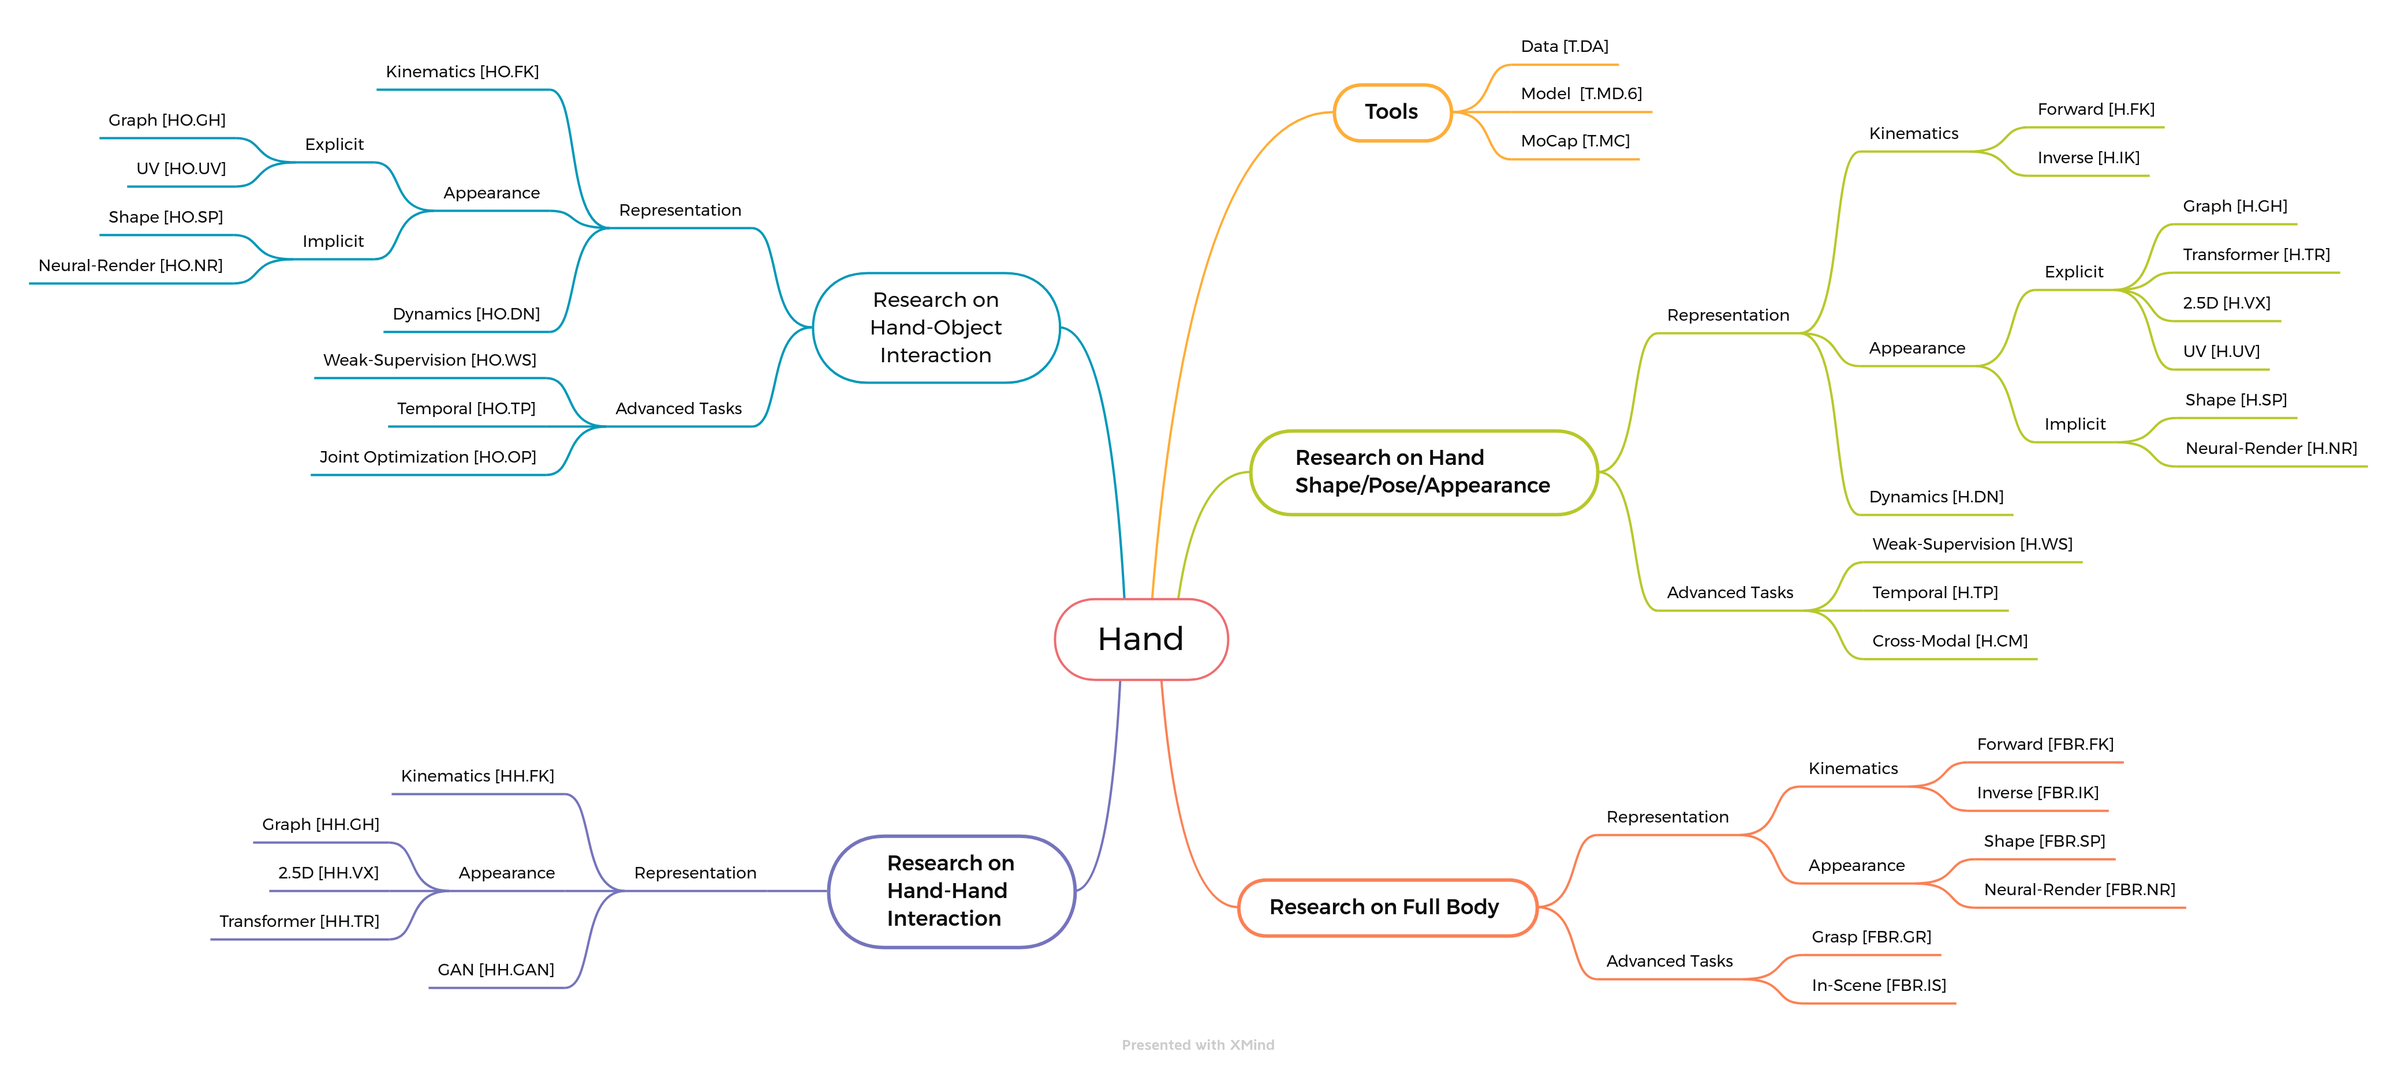
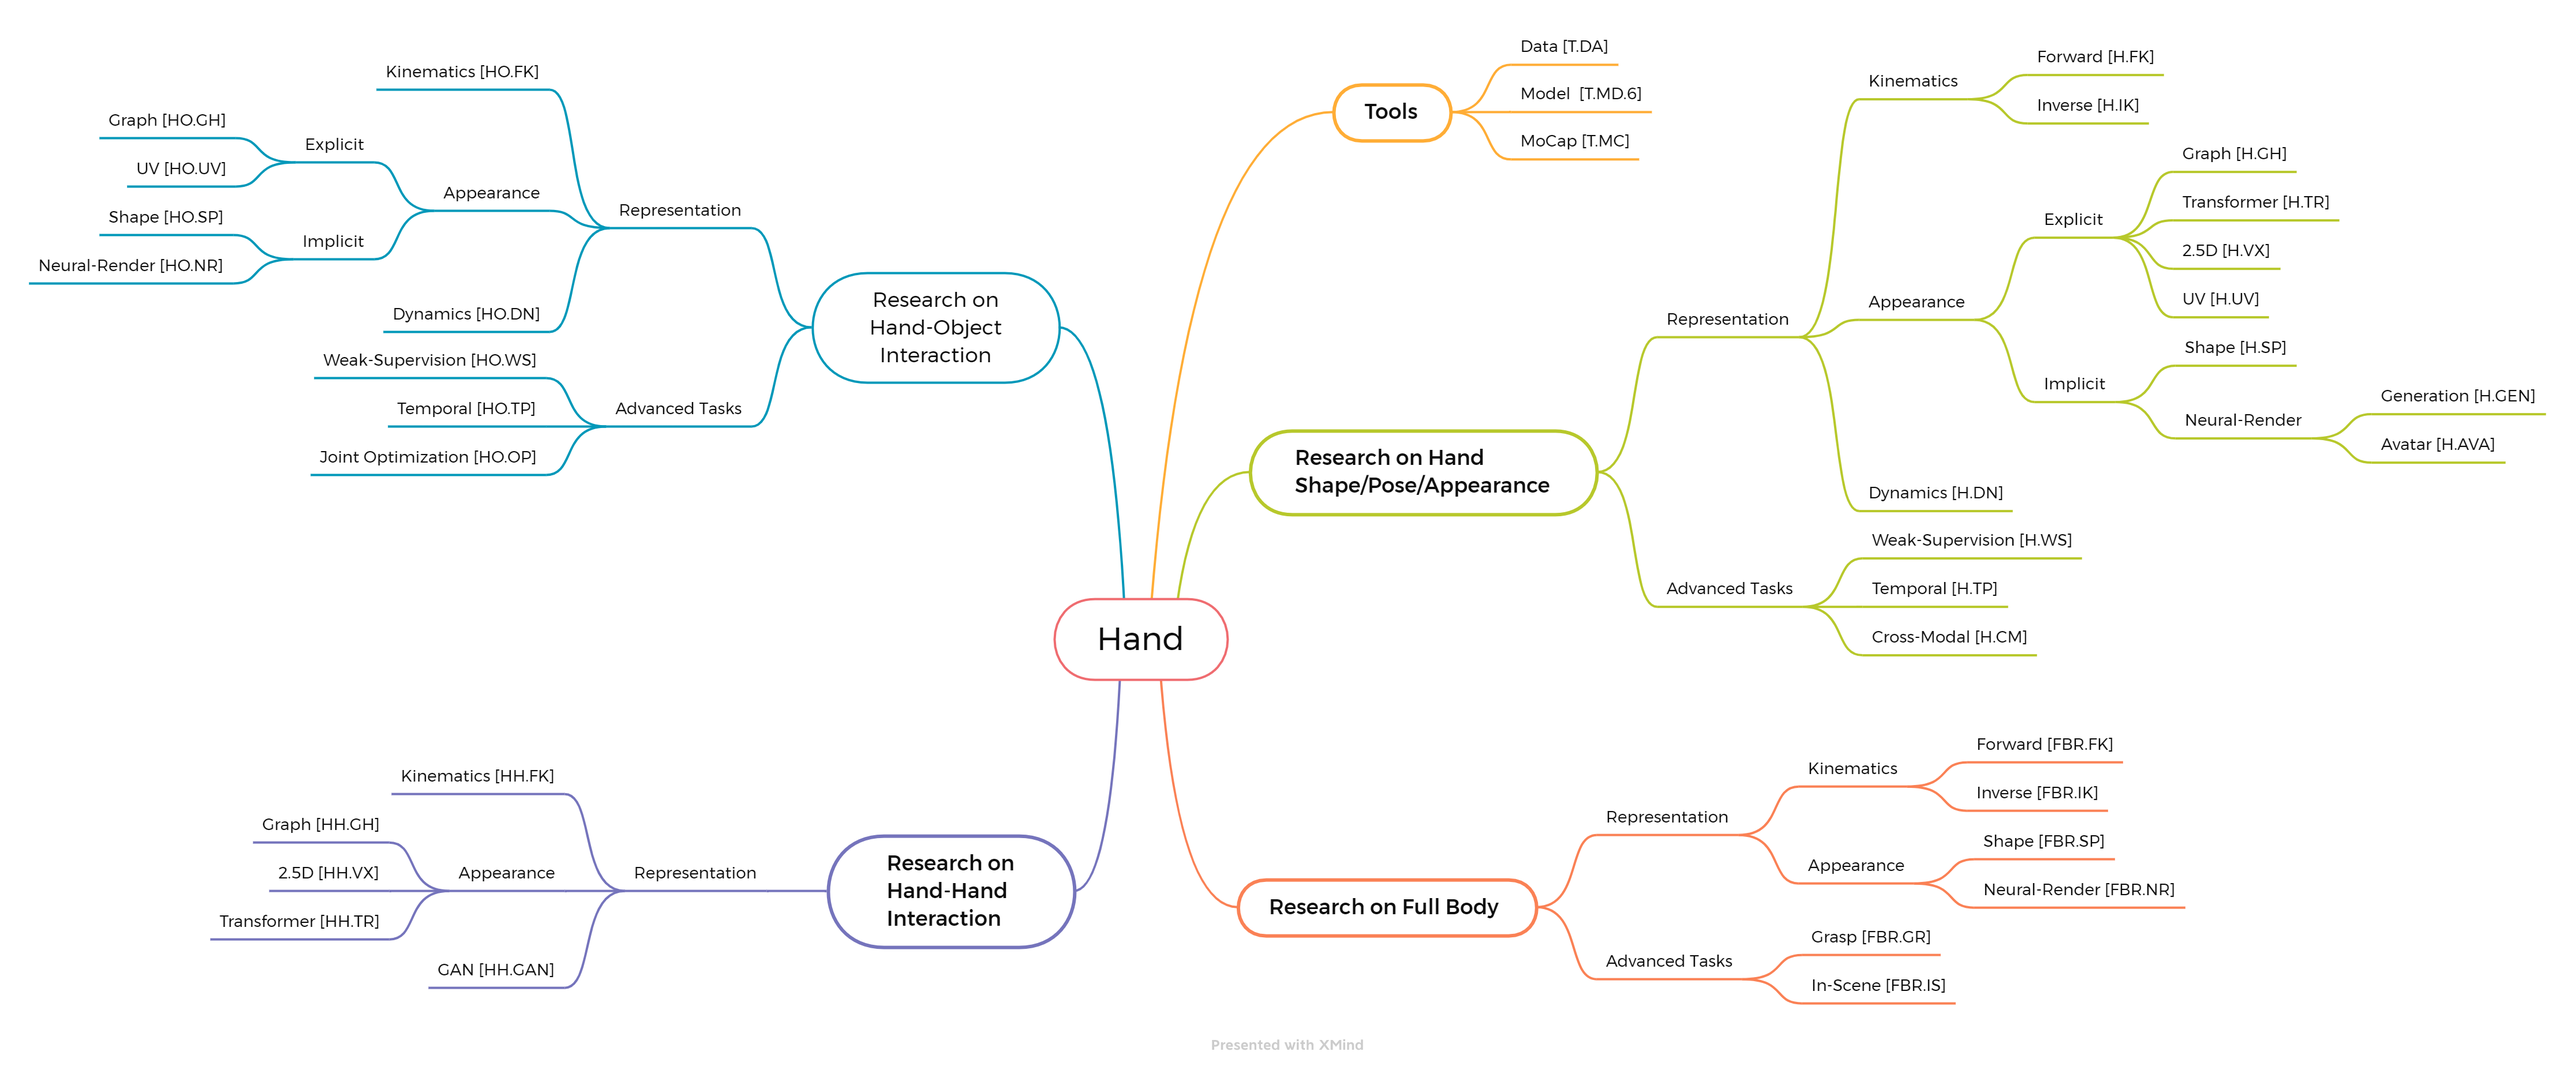
Add HumanGen

diff --git a/README.md b/README.md
@@ -16,7 +16,8 @@ A complete paper list for hand pose can be found [here](https://github.com/xingh
       - [2.5D](#25d)
       - [UV](#uv)
       - [Shape](#shape)
-      - [Neural Rendering](#neural-rendering)
+      - [Neural Rendering on Generation](#neural-rendering-on-generation)
+      - [Neural Rendering on Avatar](#neural-rendering-on-avatar)
       - [Dynamics](#dynamics)
       - [Weak Supervision](#weak-supervision)
       - [Temporal](#temporal)
@@ -313,107 +314,135 @@ The below indices are references to the above [overview](#overview).
   [[PDF](https://arxiv.org/pdf/2109.11399.pdf)] \
   *Korrawe Karunratanakul, Adrian Spurr, Zicong Fan, Otmar Hilliges, Siyu Tang*
 
-#### Neural Rendering
+#### Neural Rendering on Generation
 
-+ [H.NR.20] NDF: Neural Deformable Fields for Dynamic Human Modelling. ECCV22.
-  [[PDF](https://arxiv.org/pdf/2207.09193.pdf)] \
-  *Ruiqi Zhang, Jie Chen*
++ [H.GEN.6] 3DHumanGAN: Towards Photo-Realistic 3D-Aware Human Image Generation. arXiv22.
+  [[PDF](https://arxiv.org/pdf/2212.07378.pdf)]
+  [[Project](https://3dhumangan.github.io/)]
+  [[Code](https://github.com/3dhumangan/3DHumanGAN)] \
+  *Zhuoqian Yang, Shikai Li, Wayne Wu, Bo Dai*
 
-+ [H.NR.19] ARAH: Animatable Volume Rendering of Articulated Human SDFs. ECCV22.
-  [[PDF](https://arxiv.org/pdf/2210.10036.pdf)] 
-  [[Project](https://neuralbodies.github.io/arah/)]
-  [[Code](https://github.com/taconite/arah-release)] \
-  *Shaofei Wang, Katja Schwarz, Andreas Geiger, Siyu Tang*
++ [H.GEN.5] HumanGen: Generating Human Radiance Fields with Explicit Priors. arXiv22.
+  [[PDF](https://arxiv.org/pdf/2212.05321.pdf)]
+  *Suyi Jiang, Haoran Jiang, Ziyu Wang, Haimin Luo, Wenzheng Chen, Lan Xu*
 
-+ [H.NR.18] AvatarGen: a 3D Generative Model for Animatable Human Avatars. arXiv22.
++ [H.GEN.4] AvatarGen: a 3D Generative Model for Animatable Human Avatars. arXiv22.
   [[PDF](https://arxiv.org/pdf/2208.00561.pdf)]
   [[Code](https://github.com/jfzhang95/AvatarGen)] \
   *Jianfeng Zhang, Zihang Jiang, Dingdong Yang, Hongyi Xu, Yichun Shi, Guoxian Song, Zhongcong Xu, Xinchao Wang, Jiashi Feng*
 
-+ [H.NR.17] Next3D: Generative Neural Texture Rasterization for 3D-Aware Head Avatars. arXiv22.
++ [H.GEN.3] Next3D: Generative Neural Texture Rasterization for 3D-Aware Head Avatars. arXiv22.
   [[PDF](https://arxiv.org/pdf/2211.11208.pdf)] 
   [[Project](https://mrtornado24.github.io/Next3D/)]
   [[Code](https://github.com/MrTornado24/Next3D)] \
   *Jingxiang Sun, Xuan Wang, Lizhen Wang, Xiaoyu Li, Yong Zhang, Hongwen Zhang, Yebin Liu*
 
-+ [H.NR.16] Hand Avatar: Free-Pose Hand Animation and Rendering from Monocular Video. arXiv22.
++ [H.GEN.2] EVA3D: Compositional 3D Human Generation from 2D Image Collections. arXiv22.
+  [[PDF](https://arxiv.org/pdf/2210.04888.pdf)]
+  [[Project](https://hongfz16.github.io/projects/EVA3D.html)]
+  [[Code](https://github.com/hongfz16/EVA3D)] \
+  *Fangzhou Hong, Zhaoxi Chen, Yushi Lan, Liang Pan, Ziwei Liu*
+
++ [H.GEN.1] Efficient Geometry-aware 3D Generative Adversarial Networks. CVPR22.
+  [[PDF](https://arxiv.org/pdf/2112.07945.pdf)]
+  [[Project](https://nvlabs.github.io/eg3d/)]
+  [[Code](https://github.com/NVlabs/eg3d)] \
+  *Eric R. Chan, Connor Z. Lin, Matthew A. Chan, Koki Nagano, Boxiao Pan, Shalini De Mello, Orazio Gallo, Leonidas Guibas, Jonathan Tremblay, Sameh Khamis, Tero Karras, Gordon Wetzstein*
+
+#### Neural Rendering on Avatar
+
++ [H.AVA.19] One-shot Implicit Animatable Avatars with Model-based Priors. arXiv22.
+  [[PDF](https://arxiv.org/pdf/2212.02469.pdf)] \
+  *Yangyi Huang, Hongwei Yi, Weiyang Liu, Haofan Wang, Boxi Wu, Wenxiao Wang, Binbin Lin, Debing Zhang, Deng Cai*
+
++ [H.AVA.18] NDF: Neural Deformable Fields for Dynamic Human Modelling. ECCV22.
+  [[PDF](https://arxiv.org/pdf/2207.09193.pdf)] \
+  *Ruiqi Zhang, Jie Chen*
+
++ [H.AVA.17] ARAH: Animatable Volume Rendering of Articulated Human SDFs. ECCV22.
+  [[PDF](https://arxiv.org/pdf/2210.10036.pdf)] 
+  [[Project](https://neuralbodies.github.io/arah/)]
+  [[Code](https://github.com/taconite/arah-release)] \
+  *Shaofei Wang, Katja Schwarz, Andreas Geiger, Siyu Tang*
+
++ [H.AVA.16] Hand Avatar: Free-Pose Hand Animation and Rendering from Monocular Video. arXiv22.
   [[PDF](https://arxiv.org/pdf/2211.12782.pdf)]
   [[Project](https://seanchenxy.github.io/HandAvatarWeb/)] \
   *Xingyu Chen, Baoyuan Wang Heung-Yeung, Shum*
 
-+ [H.NR.15] Authentic Volumetric Avatars From a Phone Scan. SIGGRAPH22.
++ [H.AVA.15] Authentic Volumetric Avatars From a Phone Scan. SIGGRAPH22.
   [[PDF](https://drive.google.com/file/d/1i4NJKAggS82wqMamCJ1OHRGgViuyoY6R/view)] \
   *Chen Cao, Tomas Simon, Jin Kyu Kim, Gabe Schwartz, Michael Zollhoefer, Shunsuke Saito, Stephen Lombardi, Shih-En Wei, Danielle Belko, Shoou-I Yu, Yaser Sheikh, Jason Saragih*
 
-+ [H.NR.14] Mixture of volumetric primitives for efficient neural rendering. SIGGRAPH21.
++ [H.AVA.14] Mixture of volumetric primitives for efficient neural rendering. SIGGRAPH21.
   [[PDF](https://arxiv.org/pdf/2103.01954.pdf)]
   [[Code](https://github.com/facebookresearch/mvp)] \
   *Stephen Lombardi, Tomas Simon, Gabriel Schwartz, Michael Zollhoefer, Yaser Sheikh, Jason Saragih*
 
-+ [H.NR.13] I M Avatar: Implicit Morphable Head Avatars from Videos. CVPR22.
++ [H.AVA.13] I M Avatar: Implicit Morphable Head Avatars from Videos. CVPR22.
   [[PDF](https://openaccess.thecvf.com/content/CVPR2022/papers/Zheng_I_M_Avatar_Implicit_Morphable_Head_Avatars_From_Videos_CVPR_2022_paper.pdf)]
   [[Project](https://ait.ethz.ch/projects/2022/IMavatar/)]
   [[Code](https://github.com/zhengyuf/IMavatar)] \
   *Yufeng Zheng, Victoria Fernández Abrevaya, Marcel C. Bühler, Xu Chen, Michael J. Black, Otmar Hilliges*
 
-+ [H.NR.12] Neural Head Avatars From Monocular RGB Videos. CVPR22.
++ [H.AVA.12] Neural Head Avatars From Monocular RGB Videos. CVPR22.
   [[PDF](https://openaccess.thecvf.com/content/CVPR2022/papers/Grassal_Neural_Head_Avatars_From_Monocular_RGB_Videos_CVPR_2022_paper.pdf)]
   [[Project](https://philgras.github.io/neural_head_avatars/neural_head_avatars.html)]
   [[Code](https://github.com/philgras/neural-head-avatars)] \
   *Philip-William Grassal, Malte Prinzler, Titus Leistner, Carsten Rother, Matthias Nießner, Justus Thies*
 
-+ [H.NR.11] LISA: Learning Implicit Shape and Appearance of Hands. CVPR22.
++ [H.AVA.11] LISA: Learning Implicit Shape and Appearance of Hands. CVPR22.
   [[PDF](https://arxiv.org/pdf/2204.01695.pdf)] \
   *Enric Corona, Tomas Hodan, Minh Vo, Francesc Moreno-Noguer, Chris Sweeney, Richard Newcombe, Lingni Ma*
 
-+ [H.NR.10] Surface-Aligned Neural Radiance Fields for Controllable 3D Human Synthesis. CVPR22.
++ [H.AVA.10] Surface-Aligned Neural Radiance Fields for Controllable 3D Human Synthesis. CVPR22.
   [[PDF](https://openaccess.thecvf.com/content/CVPR2022/papers/Xu_Surface-Aligned_Neural_Radiance_Fields_for_Controllable_3D_Human_Synthesis_CVPR_2022_paper.pdf)]
   [[Project](https://pfnet-research.github.io/surface-aligned-nerf/)]
   [[Code](https://github.com/pfnet-research/surface-aligned-nerf)] \
   *Tianhan Xu, Yasuhiro Fujita, Eiichi Matsumoto*
 
-+ [H.NR.9] Structured Local Radiance Fields for Human Avatar Modeling. CVPR22.
++ [H.AVA.9] Structured Local Radiance Fields for Human Avatar Modeling. CVPR22.
   [[PDF](https://arxiv.org/pdf/2203.14478.pdf)]
   [[Project](https://liuyebin.com/slrf/slrf.html)] \
   *Zerong Zheng, Han Huang, Tao Yu, Hongwen Zhang, Yandong Guo, Yebin Liu*
 
-+ [H.NR.8] Neural Actor: Neural Free-view Synthesis of Human Actors with Pose Control. SIGGRAPHAsia21.
++ [H.AVA.8] Neural Actor: Neural Free-view Synthesis of Human Actors with Pose Control. SIGGRAPHAsia21.
   [[PDF](https://arxiv.org/pdf/2106.02019.pdf)]
   [[Project](https://vcai.mpi-inf.mpg.de/projects/NeuralActor/)] \
   *Lingjie Liu, Marc Habermann, Viktor Rudnev, Kripasindhu Sarkar, Jiatao Gu, Christian Theobalt*
 
-+ [H.NR.7] Editable Free-viewpoint Video Using a Layered Neural Representation. SIGGRAPH21.
++ [H.AVA.7] Editable Free-viewpoint Video Using a Layered Neural Representation. SIGGRAPH21.
   [[PDF](https://arxiv.org/pdf/2104.14786.pdf)]
   [[Project](https://jiakai-zhang.github.io/st-nerf/)]
   [[Code](https://github.com/DarlingHang/ST-NeRF)] \
   *Jiakai Zhang, Xinhang Liu, Xinyi Ye, Fuqiang Zhao, Yanshun Zhang, Minye Wu, Yingliang Zhang, Lan Xu, Jingyi Yu*
 
-+ [H.NR.6] NeuMan: Neural Human Radiance Field from a Single Video. arXiv22.
++ [H.AVA.6] NeuMan: Neural Human Radiance Field from a Single Video. arXiv22.
   [[PDF](https://arxiv.org/pdf/2203.12575.pdf)] \
   *Wei Jiang, Kwang Moo Yi, Golnoosh Samei, Oncel Tuzel, Anurag Ranjan*
 
-+ [H.NR.5] HumanNeRF: Generalizable Neural Human Radiance Field from Sparse Inputs. CVPR22.
++ [H.AVA.5] HumanNeRF: Generalizable Neural Human Radiance Field from Sparse Inputs. CVPR22.
   [[PDF](https://arxiv.org/pdf/2112.02789.pdf)]
   [[Project](https://zhaofuq.github.io/human-nerf/#code)] \
   *Fuqiang Zhao, Wei Yang, Jiakai Zhang, Pei Lin, Yingliang Zhang, Jingyi Yu, Lan Xu*
 
-+ [H.NR.4] HumanNeRF: Free-viewpoint Rendering of Moving People from Monocular Video. CVPR22.
++ [H.AVA.4] HumanNeRF: Free-viewpoint Rendering of Moving People from Monocular Video. CVPR22.
   [[PDF](https://arxiv.org/abs/2201.04127)]
   [[Project](https://grail.cs.washington.edu/projects/humannerf/)] \
   *Chung-Yi Weng, Brian Curless, Pratul P. Srinivasan, Jonathan T. Barron, Ira Kemelmacher-Shlizerman*
 
-+ [H.NR.3] Vid2Actor: Free-viewpoint Animatable Person Synthesis from Video in the Wild. arXiv20.
++ [H.AVA.3] Vid2Actor: Free-viewpoint Animatable Person Synthesis from Video in the Wild. arXiv20.
   [[PDF](https://arxiv.org/pdf/2012.12884.pdf)]
   [[Project](https://grail.cs.washington.edu/projects/vid2actor/)] \
   *Chung-Yi Weng, Brian Curless, Ira Kemelmacher-Shlizerman*
 
-+ [H.NR.2] Animatable Neural Radiance Fields for Modeling Dynamic Human Bodies. ICCV21
++ [H.AVA.2] Animatable Neural Radiance Fields for Modeling Dynamic Human Bodies. ICCV21
   [[PDF](https://arxiv.org/pdf/2105.02872.pdf)]
   [[Code](https://github.com/zju3dv/animatable_nerf)]
   [[Project](https://zju3dv.github.io/animatable_nerf/?utm_source=catalyzex.com)] \
   *Sida Peng, Junting Dong, Qianqian Wang, Shangzhan Zhang, Qing Shuai, Xiaowei Zhou, Hujun Bao*
 
-+ [H.NR.1] Neural Body: Implicit Neural Representations with Structured Latent Codes for Novel View Synthesis of Dynamic Humans. CVPR21.
++ [H.AVA.1] Neural Body: Implicit Neural Representations with Structured Latent Codes for Novel View Synthesis of Dynamic Humans. CVPR21.
   [[PDF](https://arxiv.org/pdf/2012.15838.pdf)]
   [[Code](https://github.com/zju3dv/neuralbody)]
   [[Project](https://zju3dv.github.io/neuralbody/)] \
@@ -894,6 +923,12 @@ Junsong Yuan*
   *Yuxiao Zhou, Marc Habermann, Ikhsanul Habibie, Ayush Tewari, Christian Theobalt, Feng Xu*
 
 #### Shape
+
++ [FBR.SP.12] ECON: Explicit Clothed humans Obtained from Normals. arXiv22.
+  [[PDF](https://arxiv.org/pdf/2212.07422.pdf)]
+  [[Project](https://xiuyuliang.cn/econ/)]
+  [[Code](https://github.com/YuliangXiu/ECON)] \
+  *Yuliang Xiu, Jinlong Yang, Xu Cao, Dimitrios Tzionas, Michael J. Black*
 
 + [FBR.SP.11] COAP: Compositional Articulated Occupancy of People. CVPR22.
   [[PDF](https://openaccess.thecvf.com/content/CVPR2022/papers/Mihajlovic_COAP_Compositional_Articulated_Occupancy_of_People_CVPR_2022_paper.pdf)]
